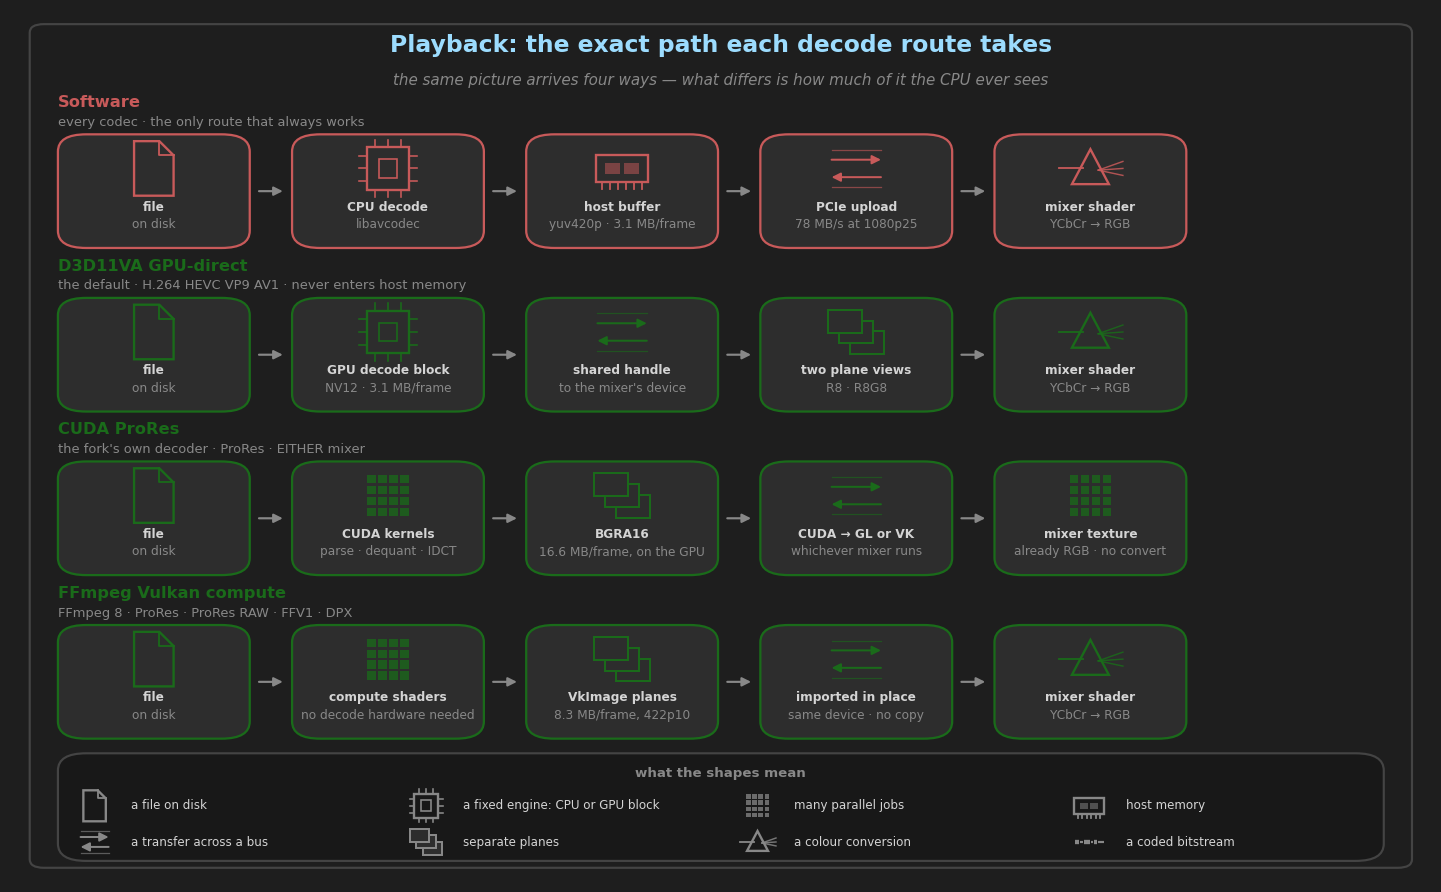
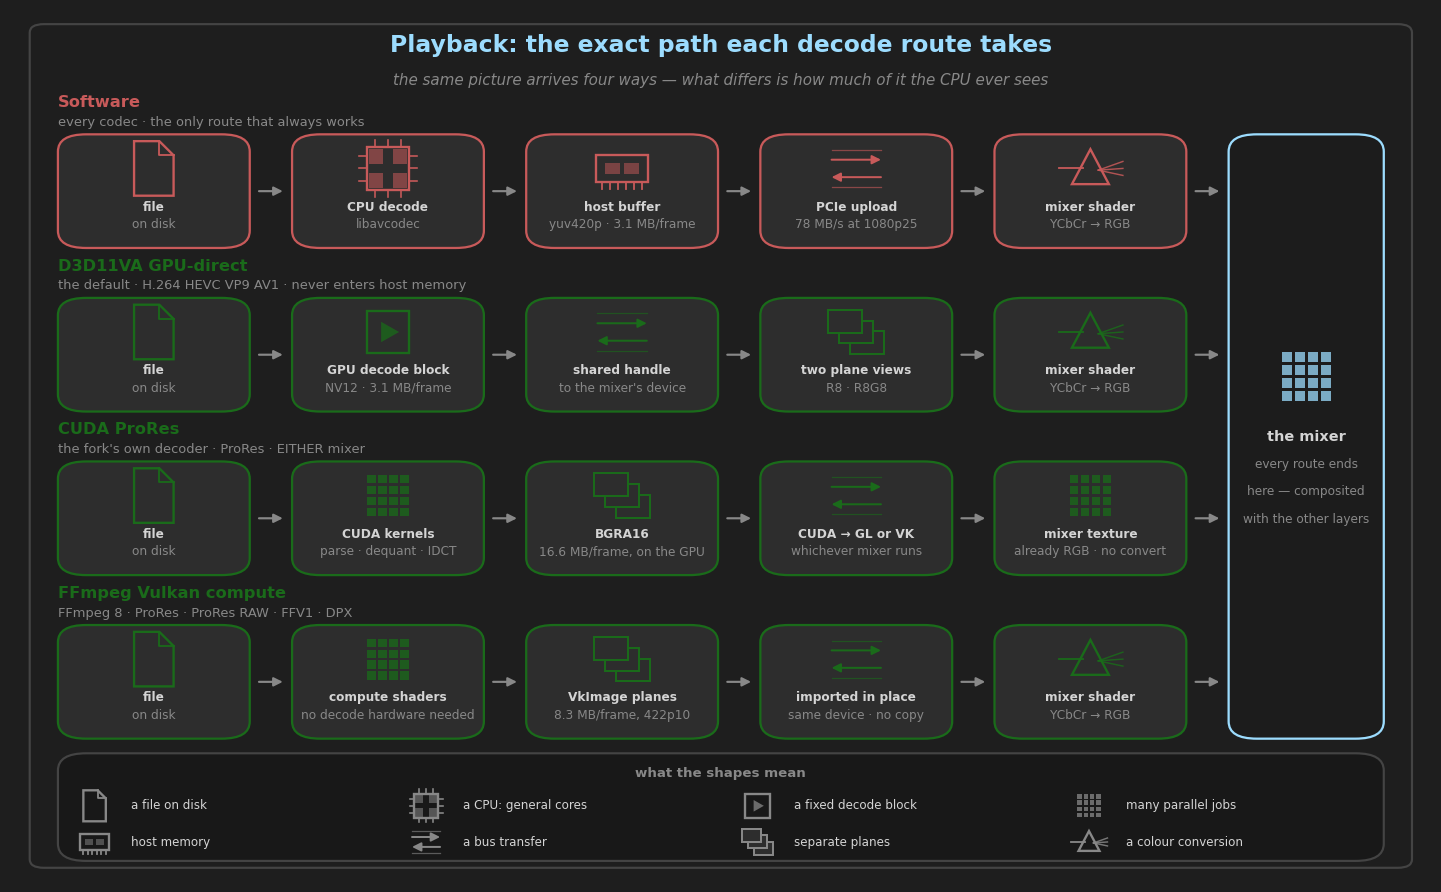
docs(recording): one chip glyph for four kinds of engine, and no shared ending drawn
Three things, all in the two pipeline figures.

**A processor icon per kind of processor.** CPU decode, the GPU's decode block, NVENC and the
Vulkan compute encoder were all the same pinned-die glyph, which conveyed "some engine" -- the
one thing the box's own words already say. What differs is the KIND:

* `cpu` -- a pinned die holding four big cores: a socketed, general-purpose part.
* `fixdec` -- a PINLESS block with a play mark: a fixed-function decode engine.
* `fixenc` -- the same block with a record dot: a fixed-function encode engine, i.e. NVENC.
* the Vulkan encoder box takes the existing compute grid, because ProRes and FFV1 -- the row's
  headline capability -- are compute shaders; h264/hevc_vulkan reaching NVENC is what its
  caption says.

Pins are the distinction that carries the meaning: a fixed block sits on the same die as
everything else and is not socketed.

**The shared ending, drawn.** The four decode rows do not finish on the same kind of stage --
CUDA ProRes hands the mixer RGB where the other three hand it YCbCr planes for the shader --
so the last column read as four different endings when it is one ending arrived at four ways.
Both figures now converge into a terminal box spanning all four rows, with an arrow from each:
"the mixer" for decode, "on disk" for encode.

**And that fills the empty strip** the five columns left at the right: the last column ended at
[…]

diff --git a/docs/diagrams/generate_recording_diagrams.py b/docs/diagrams/generate_recording_diagrams.py
@@ -606,21 +606,55 @@ def _ic_file(ax, cx, cy, s, col, z=6):
             [y + h, y + h - fold * _AR, y + h - fold * _AR], color=col, lw=1.0, zorder=z)
 
 
-def _ic_chip(ax, cx, cy, s, col, z=6, label=None):
-    """A die with pins: a fixed-function or CPU engine."""
+def _die(ax, cx, cy, s, col, z, *, pins):
+    """The shared body of the three processor icons: a square die, optionally with pins.
+
+    Pins mean a SOCKETED, general-purpose part; a fixed-function block on the same die as
+    everything else does not have any. One icon for all of CPU decode, the GPU's decode block,
+    NVENC and a compute encoder said only "some engine", which is the one thing about those
+    boxes the reader can already tell from the words. What differs is the KIND of engine.
+    """
     w, hh = s * 0.78, s * 0.78 * _AR
     ax.add_patch(patches.Rectangle((cx - w / 2, cy - hh / 2), w, hh, fc="none", ec=col,
                                    lw=1.3, zorder=z))
-    ax.add_patch(patches.Rectangle((cx - w * 0.22, cy - hh * 0.22), w * 0.44, hh * 0.44,
-                                   fc="none", ec=col, lw=0.9, zorder=z))
-    pin, pinv = s * 0.14, s * 0.14 * _AR
-    for i in range(3):
-        ox, oy = (i - 1) * w * 0.3, (i - 1) * hh * 0.3
-        for x0, x1, y0, y1 in ((cx + ox, cx + ox, cy + hh / 2, cy + hh / 2 + pinv),
-                               (cx + ox, cx + ox, cy - hh / 2, cy - hh / 2 - pinv),
-                               (cx - w / 2, cx - w / 2 - pin, cy + oy, cy + oy),
-                               (cx + w / 2, cx + w / 2 + pin, cy + oy, cy + oy)):
-            ax.plot([x0, x1], [y0, y1], color=col, lw=0.9, zorder=z)
+    if pins:
+        pin, pinv = s * 0.14, s * 0.14 * _AR
+        for i in range(3):
+            ox, oy = (i - 1) * w * 0.3, (i - 1) * hh * 0.3
+            for x0, x1, y0, y1 in ((cx + ox, cx + ox, cy + hh / 2, cy + hh / 2 + pinv),
+                                   (cx + ox, cx + ox, cy - hh / 2, cy - hh / 2 - pinv),
+                                   (cx - w / 2, cx - w / 2 - pin, cy + oy, cy + oy),
+                                   (cx + w / 2, cx + w / 2 + pin, cy + oy, cy + oy)):
+                ax.plot([x0, x1], [y0, y1], color=col, lw=0.9, zorder=z)
+    return w, hh
+
+
+def _ic_cpu(ax, cx, cy, s, col, z=6):
+    """A pinned die holding a few big cores: a general-purpose CPU."""
+    w, hh = _die(ax, cx, cy, s, col, z, pins=True)
+    for sx in (-1, 1):
+        for sy in (-1, 1):
+            ax.add_patch(patches.Rectangle((cx + sx * w * 0.28 - w * 0.17,
+                                            cy + sy * hh * 0.28 - hh * 0.17),
+                                           w * 0.34, hh * 0.34,
+                                           fc=col, ec="none", alpha=0.55, zorder=z))
+
+
+def _ic_fixdec(ax, cx, cy, s, col, z=6):
+    """A pinless block with a play mark: the GPU's fixed-function DECODE engine."""
+    w, hh = _die(ax, cx, cy, s, col, z, pins=False)
+    ax.add_patch(patches.Polygon([(cx - w * 0.16, cy + hh * 0.24),
+                                  (cx - w * 0.16, cy - hh * 0.24),
+                                  (cx + w * 0.26, cy)],
+                                 closed=True, fc=col, ec="none", alpha=0.75, zorder=z))
+
+
+def _ic_fixenc(ax, cx, cy, s, col, z=6):
+    """A pinless block with a record dot: a fixed-function ENCODE engine, i.e. NVENC."""
+    w, hh = _die(ax, cx, cy, s, col, z, pins=False)
+    d = w * 0.42
+    ax.add_patch(patches.Ellipse((cx, cy), d, d * _AR, fc=col, ec="none", alpha=0.75,
+                                 zorder=z))
 
 
 def _ic_grid(ax, cx, cy, s, col, z=6, n=4):
@@ -696,8 +730,9 @@ def _ic_stream(ax, cx, cy, s, col, z=6):
 
 
 ICONS = {
-    "file": _ic_file, "chip": _ic_chip, "grid": _ic_grid, "ram": _ic_ram,
-    "bus": _ic_bus, "prism": _ic_prism, "stack": _ic_stack, "stream": _ic_stream,
+    "file": _ic_file, "cpu": _ic_cpu, "fixdec": _ic_fixdec, "fixenc": _ic_fixenc,
+    "grid": _ic_grid, "ram": _ic_ram, "bus": _ic_bus, "prism": _ic_prism,
+    "stack": _ic_stack, "stream": _ic_stream,
 }
 
 
@@ -713,6 +748,24 @@ def _step(lay, ax, name, x, y, w, h, icon, lines, *, col, fc=PANEL, icon_col=Non
         lay.fit_text(None, x + w / 2, y + h * 0.36 - i * (h * 0.155), ln, parent=name,
                      size=6.7, color=TEXT if i == 0 else MUTED, ha="center",
                      weight="bold" if i == 0 else "normal")
+
+
+def _terminal(lay, ax, x, y, w, h, icon, lines, *, col, rows_y):
+    """The one box all four rows end in, spanning them, with an arrow from each.
+
+    The four rows do NOT all finish on the same kind of stage -- CUDA ProRes hands the mixer an
+    RGB texture where the other three hand it YCbCr planes for the shader to convert -- so the
+    last column reads as four different endings. It is the same ending: the mixer. Drawing the
+    convergence says that, and it also fills the strip of empty page the five columns left.
+    """
+    lay.panel("term", x, y, w, h, fc="#1c1c1c", ec=col, lw=1.25)
+    ICONS[icon](ax, x + w / 2, y + h / 2 + 7.0, min(w, h / _AR) * 0.42, col)
+    for i, ln in enumerate(lines):
+        lay.fit_text(None, x + w / 2, y + h / 2 - i * 3.2, ln, parent="term",
+                     size=8.0 if i == 0 else 6.7, color=TEXT if i == 0 else MUTED,
+                     ha="center", weight="bold" if i == 0 else "normal")
+    for k, ry in enumerate(rows_y):
+        lay.arrow((x - 2.6, ry), (x - 0.4, ry), color=MUTED, lw=1.2)
 
 
 def _icon_legend(lay, ax, y, items):
@@ -763,14 +816,14 @@ def decode_paths():
     rows = [
         ("Software", DANGER_T, "every codec · the only route that always works", [
             ("file", ("file", "on disk")),
-            ("chip", ("CPU decode", "libavcodec")),
+            ("cpu", ("CPU decode", "libavcodec")),
             ("ram", ("host buffer", "yuv420p · 3.1 MB/frame")),
             ("bus", ("PCIe upload", "78 MB/s at 1080p25")),
             ("prism", ("mixer shader", "YCbCr → RGB")),
         ]),
         ("D3D11VA GPU-direct", SUCCESS, "the default · H.264 HEVC VP9 AV1 · never enters host memory", [
             ("file", ("file", "on disk")),
-            ("chip", ("GPU decode block", "NV12 · 3.1 MB/frame")),
+            ("fixdec", ("GPU decode block", "NV12 · 3.1 MB/frame")),
             ("bus", ("shared handle", "to the mixer's device")),
             ("stack", ("two plane views", "R8 · R8G8")),
             ("prism", ("mixer shader", "YCbCr → RGB")),
@@ -805,11 +858,15 @@ def decode_paths():
                 lay.arrow((x - GAP + 0.4, y + H / 2), (x - 0.4, y + H / 2),
                           color=MUTED, lw=1.2)
 
+    _terminal(lay, ax, 86.0, 16.0, 11.0, 70.2, "grid",
+              ("the mixer", "every route ends", "here — composited", "with the other layers"),
+              col=TITLE, rows_y=[73 - r * 19.0 + H / 2 for r in range(4)])
+
     _icon_legend(lay, ax, 1.8, [
-        ("file", "a file on disk"), ("chip", "a fixed engine: CPU or GPU block"),
-        ("grid", "many parallel jobs"), ("ram", "host memory"),
-        ("bus", "a transfer across a bus"), ("stack", "separate planes"),
-        ("prism", "a colour conversion"), ("stream", "a coded bitstream"),
+        ("file", "a file on disk"), ("cpu", "a CPU: general cores"),
+        ("fixdec", "a fixed decode block"), ("grid", "many parallel jobs"),
+        ("ram", "host memory"), ("bus", "a bus transfer"),
+        ("stack", "separate planes"), ("prism", "a colour conversion"),
     ])
 
     lay.check(name="recording_decode_paths")
@@ -835,21 +892,21 @@ def encode_paths():
             ("grid", ("mixer texture", "the composite")),
             ("ram", ("readback", "8.3 MB/frame · 207 MB/s")),
             ("prism", ("libswscale", "→ the encoder's format")),
-            ("chip", ("CPU encoder", "libavcodec")),
+            ("cpu", ("CPU encoder", "libavcodec")),
             ("stream", ("bitstream", "1-25 MB/s typical")),
         ]),
         ("NVENC GPU-direct", SUCCESS, "H.264 · HEVC · 8-bit channels only", [
             ("grid", ("mixer texture", "8-bit")),
             ("bus", ("CUDA copy", "8.3 MB/frame, no conversion")),
             ("stack", ("CUDA frame", "RGB0 · BGR0 by mixer")),
-            ("chip", ("NVENC block", "RGB → YCbCr in hardware")),
+            ("fixenc", ("NVENC block", "RGB → YCbCr in hardware")),
             ("stream", ("H.264 / HEVC", "the bitrate you ask for")),
         ]),
         ("FFmpeg Vulkan", SUCCESS, "ProRes · FFV1 · H.264 · HEVC · 16-bit channels only", [
             ("grid", ("mixer texture", "16-bit RGBA")),
             ("bus", ("VkImage copy", "16.6 MB/frame, same device")),
             ("prism", ("libplacebo", "→ yuv422p10 · 8.3 MB/fr")),
-            ("chip", ("encoder", "compute, or the NVENC block")),
+            ("grid", ("encoder", "compute, or NVENC")),
             ("stream", ("ProRes HQ", "0.97 MB/fr · 24 MB/s")),
         ]),
         ("CUDA_PRORES", SUCCESS,
@@ -876,11 +933,15 @@ def encode_paths():
                 lay.arrow((x - GAP + 0.4, y + H / 2), (x - 0.4, y + H / 2),
                           color=MUTED, lw=1.2)
 
+    _terminal(lay, ax, 86.0, 16.0, 11.0, 70.2, "file",
+              ("on disk", "one file per", "consumer — .mov,", ".mxf or .mp4"),
+              col=TITLE, rows_y=[73 - r * 19.0 + H / 2 for r in range(4)])
+
     _icon_legend(lay, ax, 1.8, [
-        ("grid", "many parallel jobs, or a raster"), ("ram", "host memory"),
-        ("bus", "a transfer across a bus"), ("stack", "separate planes"),
-        ("prism", "a format or colour conversion"), ("chip", "a fixed engine"),
-        ("stream", "a coded bitstream"), ("file", "a file on disk"),
+        ("grid", "many parallel jobs"), ("ram", "host memory"),
+        ("bus", "a bus transfer"), ("stack", "separate planes"),
+        ("prism", "a colour conversion"), ("cpu", "a CPU: general cores"),
+        ("fixenc", "a fixed encode block"), ("stream", "a coded bitstream"),
     ])
 
     lay.check(name="recording_encode_paths")
